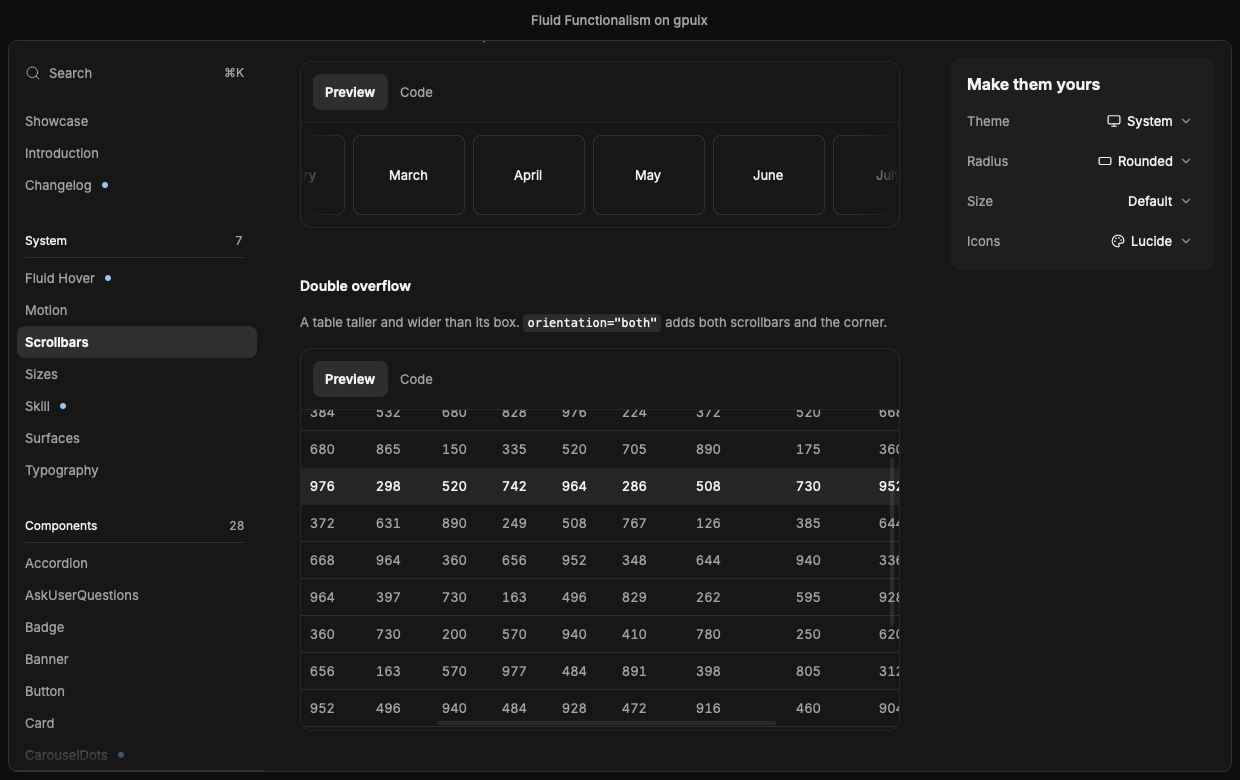
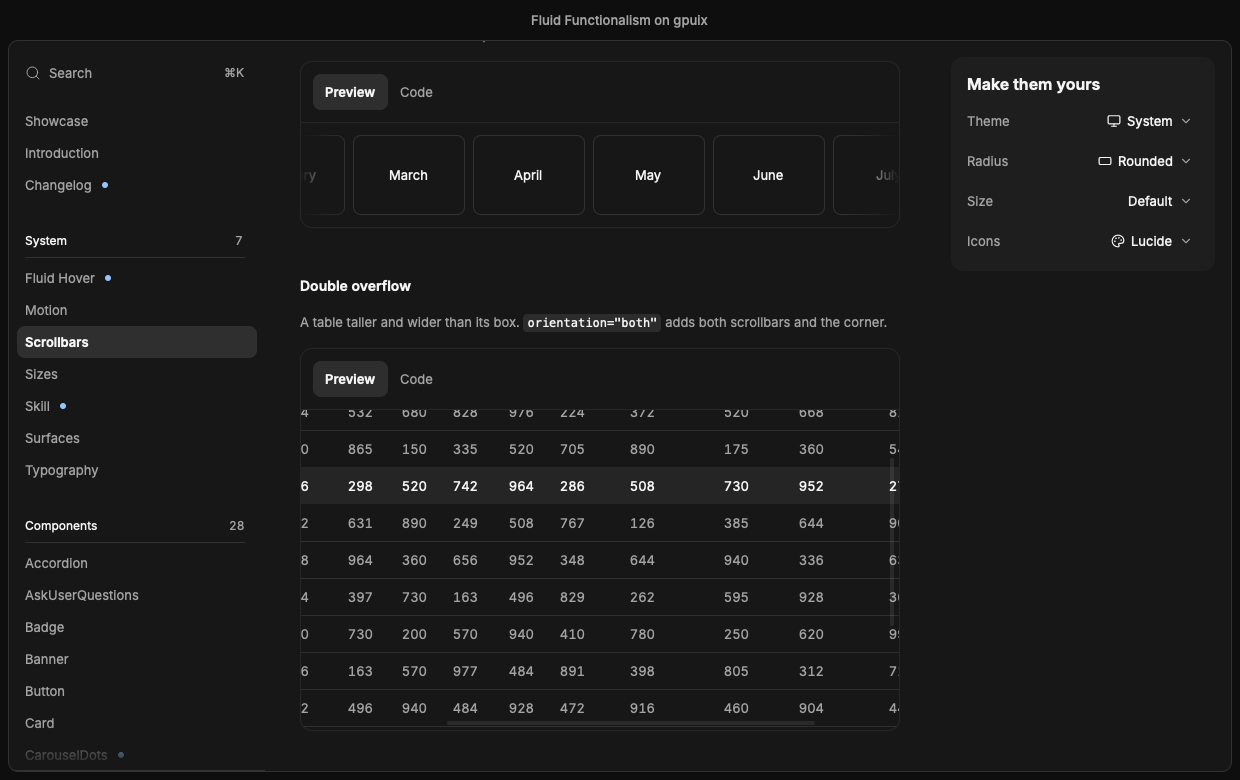
Scrollbars page: the Double overflow table sizes its columns by content, no estimated widths; drift entry closed

diff --git a/src/pages/scrollbars/demos.tsx b/src/pages/scrollbars/demos.tsx
@@ -54,12 +54,6 @@ const CITIES = [
 const metric = (row: number, col: number) =>
 	(((row + 3) * (col + 7) * 37) % 900) + 100;
 
-/** A table column is as wide as its widest cell, usually the header: about 8.4px a semibold 14px character plus the cell's 12px either side, with room for a three-digit number in the short ones. */
-const columnWidth = (heading: string) =>
-	Math.max(Math.round(heading.length * 8.4) + 24, 60);
-/** "Copenhagen" in body weight, the widest city, plus the cell's padding. */
-const CITY_COLUMN = 112;
-
 /** `h-56 w-64`. */
 const LIST_W = 256;
 const LIST_H = 224;
@@ -265,13 +259,9 @@ export function TableDemo() {
 				<Table>
 					<TableHeader>
 						<TableRow>
-							<TableHead width={CITY_COLUMN}>City</TableHead>
+							<TableHead>City</TableHead>
 							<For each={MONTHS}>
-								{(month: string) => (
-									<TableHead width={columnWidth(month)} alignRight>
-										{month}
-									</TableHead>
-								)}
+								{(month: string) => <TableHead alignRight>{month}</TableHead>}
 							</For>
 						</TableRow>
 					</TableHeader>
@@ -279,14 +269,10 @@ export function TableDemo() {
 						<For each={CITIES}>
 							{(city: string, row: () => number) => (
 								<TableRow index={row()}>
-									<TableCell width={CITY_COLUMN}>{city}</TableCell>
+									<TableCell>{city}</TableCell>
 									<For each={MONTHS}>
-										{(month: string, col: () => number) => (
-											<TableCell
-												width={columnWidth(month)}
-												alignRight
-												tabularNums
-											>
+										{(_: string, col: () => number) => (
+											<TableCell alignRight tabularNums>
 												{String(metric(row(), col()))}
 											</TableCell>
 										)}

diff --git a/drift/scrollbars-page.md b/drift/scrollbars-page.md
@@ -42,16 +42,6 @@ repeating it.
 - **Workaround:** none.
 - **Fidelity:** approximated (underline offset).
 
-## "Double overflow" is the real `Table`, with fixed column widths
-
-- **Cause:** `gpuix gap` (README "Missing features": `display: table`, so columns do not size to their content); `port choice` for the rest.
-- **Original:** `Table className="w-max"` in `ScrollArea orientation="both"`, `h-80 w-full`; the auto table layout sizes each column to its widest cell, `whitespace-nowrap`, with the month columns and their numbers `text-right tabular-nums` (`app/docs/scrollbars/page.tsx:422-458`).
-- **Port:** the port's `Table` / `TableRow index` / `TableCell` (`src/components/table.tsx`) inside `ScrollArea orientation="both"`, 320px tall, edge to edge in the frame. Every cell gets a `width`, so each row's width is the sum of them and the area overflows both ways; the fluid row hover works. The widths are estimated from the header (8.4px a character plus 24, at least 60; 112 for the city column) and stand in for the content-sized columns, so the gaps differ a little from the source's. The month headers and numbers are right-aligned and the numbers tabular, through `TableHead` / `TableCell`'s `alignRight` and `tabularNums` (`table.tsx`, `Cell`); they take no `className`.
-- **gpuix lacks:** content-sized table columns (README "Missing features", `display: table` row).
-- **Workaround:** the fixed widths.
-- **Fidelity:** approximated.
-- **Components it hits:** table (`drift/table.md`).
-
 ## The horizontal strip is given a 104px height
 
 - **Cause:** `port choice` (the area's viewport is `height: 100%`, `drift/scroll-area.md` "Demo: the horizontal strip needs an explicit height").
